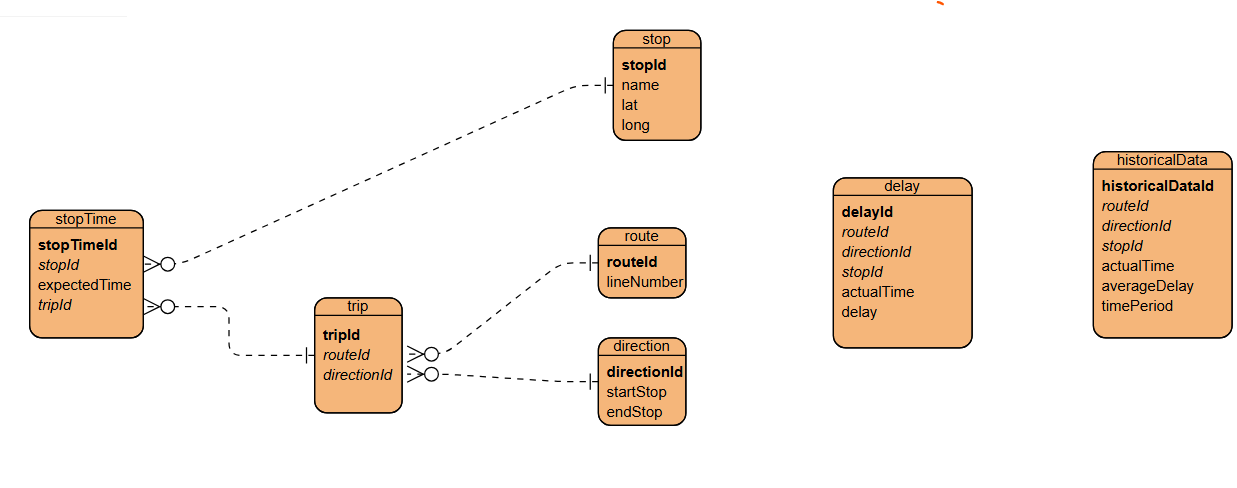
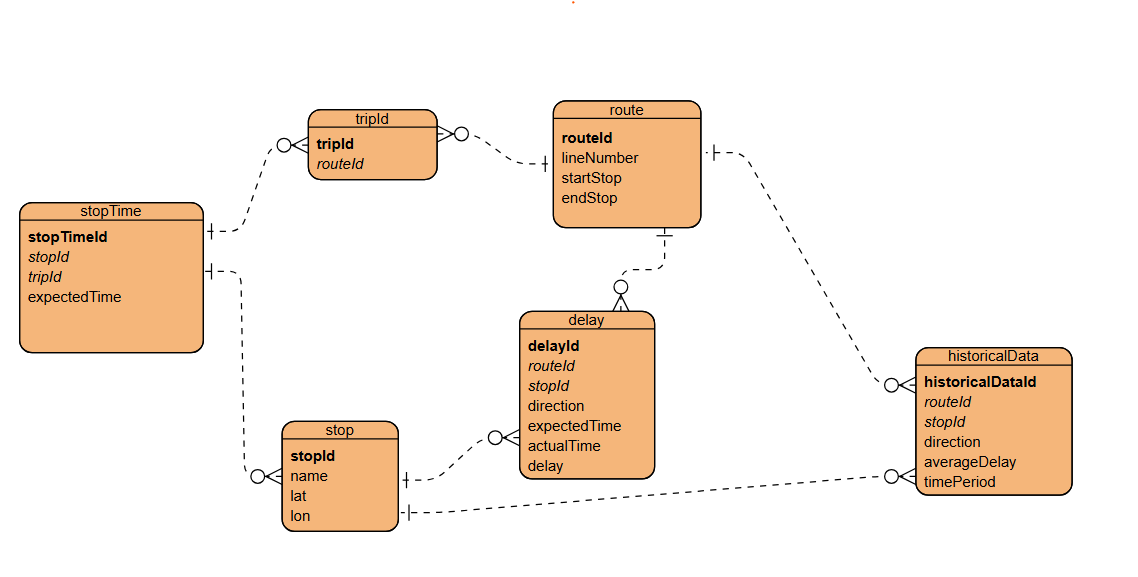
updated db and ERD

diff --git a/GetItHere/DataBase/db.py b/GetItHere/DataBase/db.py
@@ -20,18 +20,6 @@ with open("../../Routes_and_stops/KRK_A/stops.txt", "r", encoding="utf-8") as f:
             (stopId, name, stopLat, stopLon)
         )
 
-with open("../../Routes_and_stops/KRK_A/routes.txt", "r", encoding="utf-8") as f:
-    next(f)  # Skip header
-    for line in f:
-        fields = line.strip().split(",")
-        routeId = str(fields[0])
-        lineNumber = int(fields[2][1:-1])  # Remove quotes
-        vehicleType = str("A")
-        cur.execute(
-            "INSERT INTO routes(routeId, lineNumber, vehicleType) VALUES (?, ?, ?)",
-            (routeId, lineNumber, vehicleType)
-        )
-
 directions = {}
 with open("../../Routes_and_stops/KRK_A/trips.txt", "r", encoding="utf-8") as f:
     next(f)  # Skip header
@@ -43,6 +31,21 @@ with open("../../Routes_and_stops/KRK_A/trips.txt", "r", encoding="utf-8") as f:
             directions[routeId] = [endStop, None]
         elif directions[routeId][0] != endStop:
             directions[routeId][1] = endStop
+with open("../../Routes_and_stops/KRK_A/routes.txt", "r", encoding="utf-8") as f:
+    next(f)  # Skip header
+    for line in f:
+        fields = line.strip().split(",")
+        routeId = str(fields[0])
+        lineNumber = int(fields[2][1:-1])  # Remove quotes
+        startStop, endStop = None, None
+        if routeId in directions:
+            startStop = directions[routeId][0]
+            endStop = directions[routeId][1]
+        cur.execute(
+            "INSERT INTO routes(routeId, lineNumber, startStop, endStop) VALUES (?, ?, ?, ?)",
+            (routeId, lineNumber, startStop, endStop)
+        )
+
 with open("../../Routes_and_stops/KRK_A/trips.txt", "r", encoding="utf-8") as f:
     next(f)  # Skip header
     for line in f:
@@ -50,10 +53,9 @@ with open("../../Routes_and_stops/KRK_A/trips.txt", "r", encoding="utf-8") as f:
         tripId = str(fields[0])
         routeId = str(fields[1])
         endStop = str(fields[3])
-        startStop = directions[routeId][0] if directions[routeId][0] != endStop else directions[routeId][1]
         cur.execute(
-            "INSERT INTO trips(tripId, routeId, startStop, endStop) VALUES (?, ?, ?, ?)",
-            (tripId, routeId, startStop, endStop)
+            "INSERT INTO trips(tripId, routeId, endStop) VALUES (?, ?, ?)",
+            (tripId, routeId, endStop)
         )
 
 with open("../../Routes_and_stops/KRK_A/stop_times.txt", "r", encoding="utf-8") as f:
